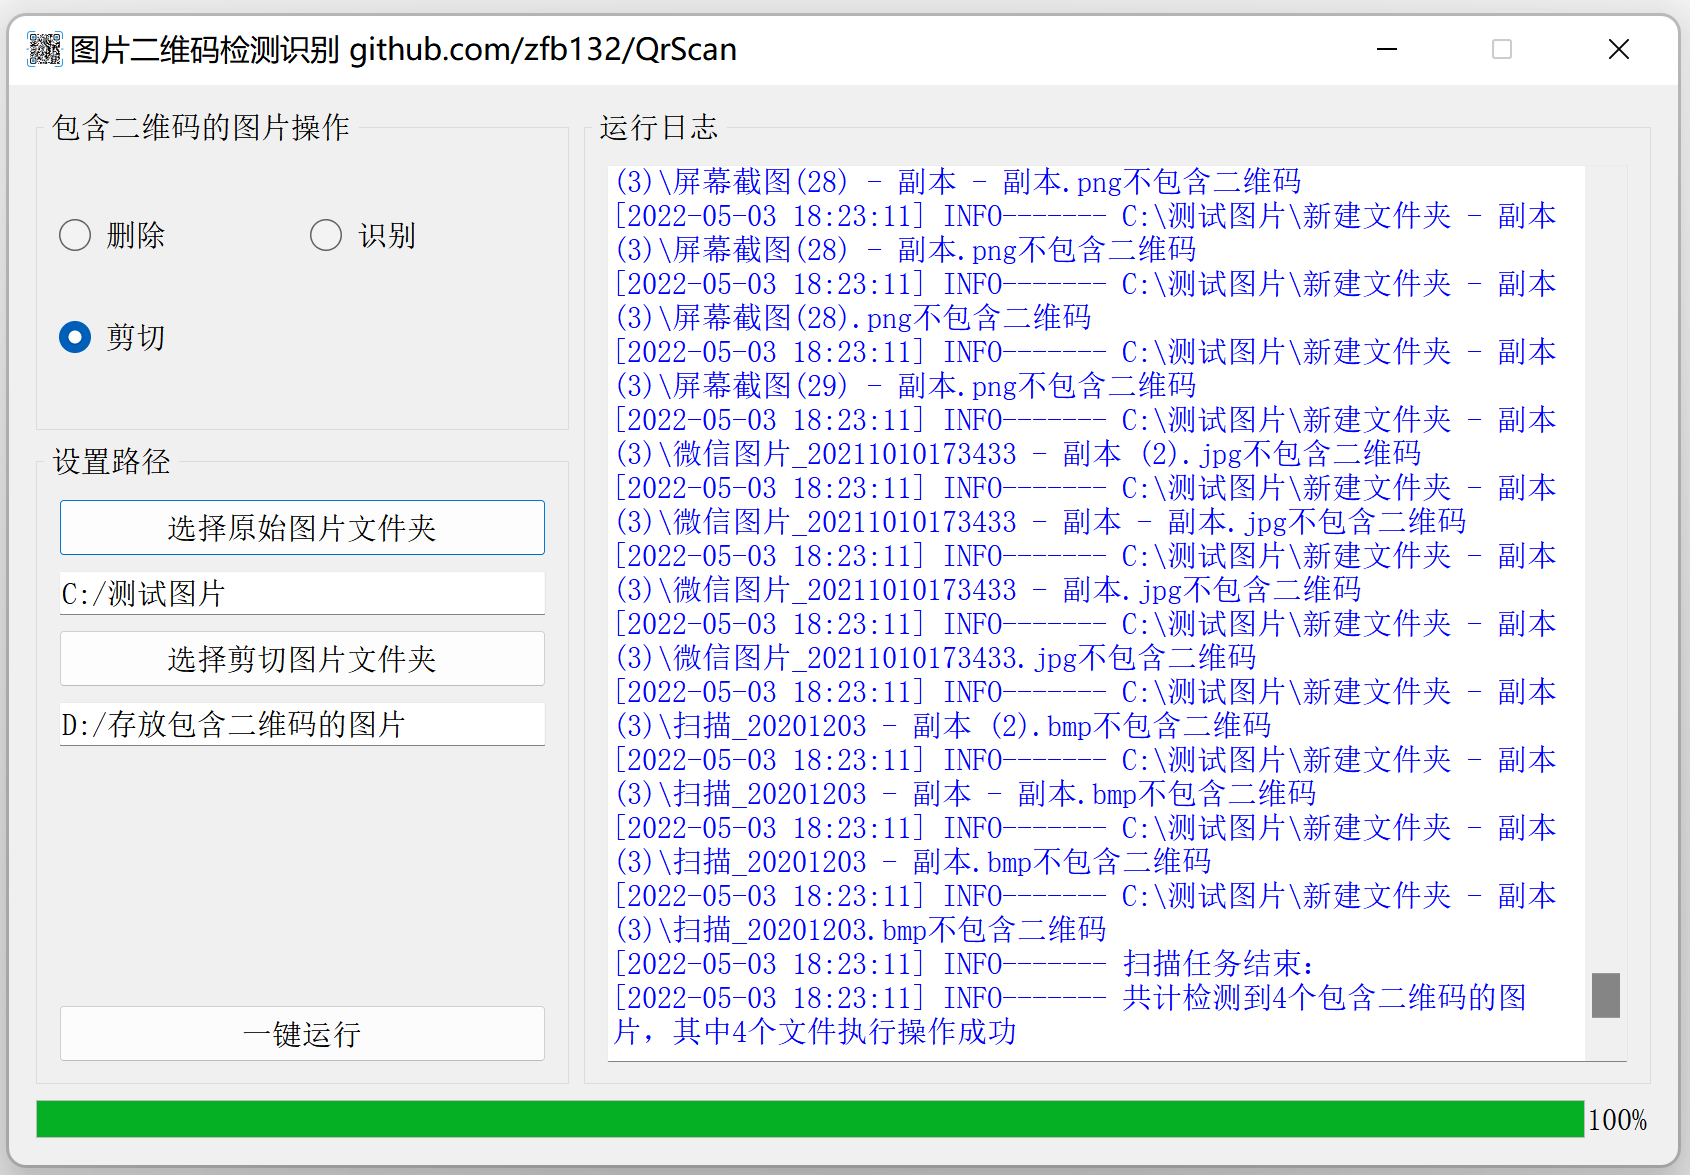
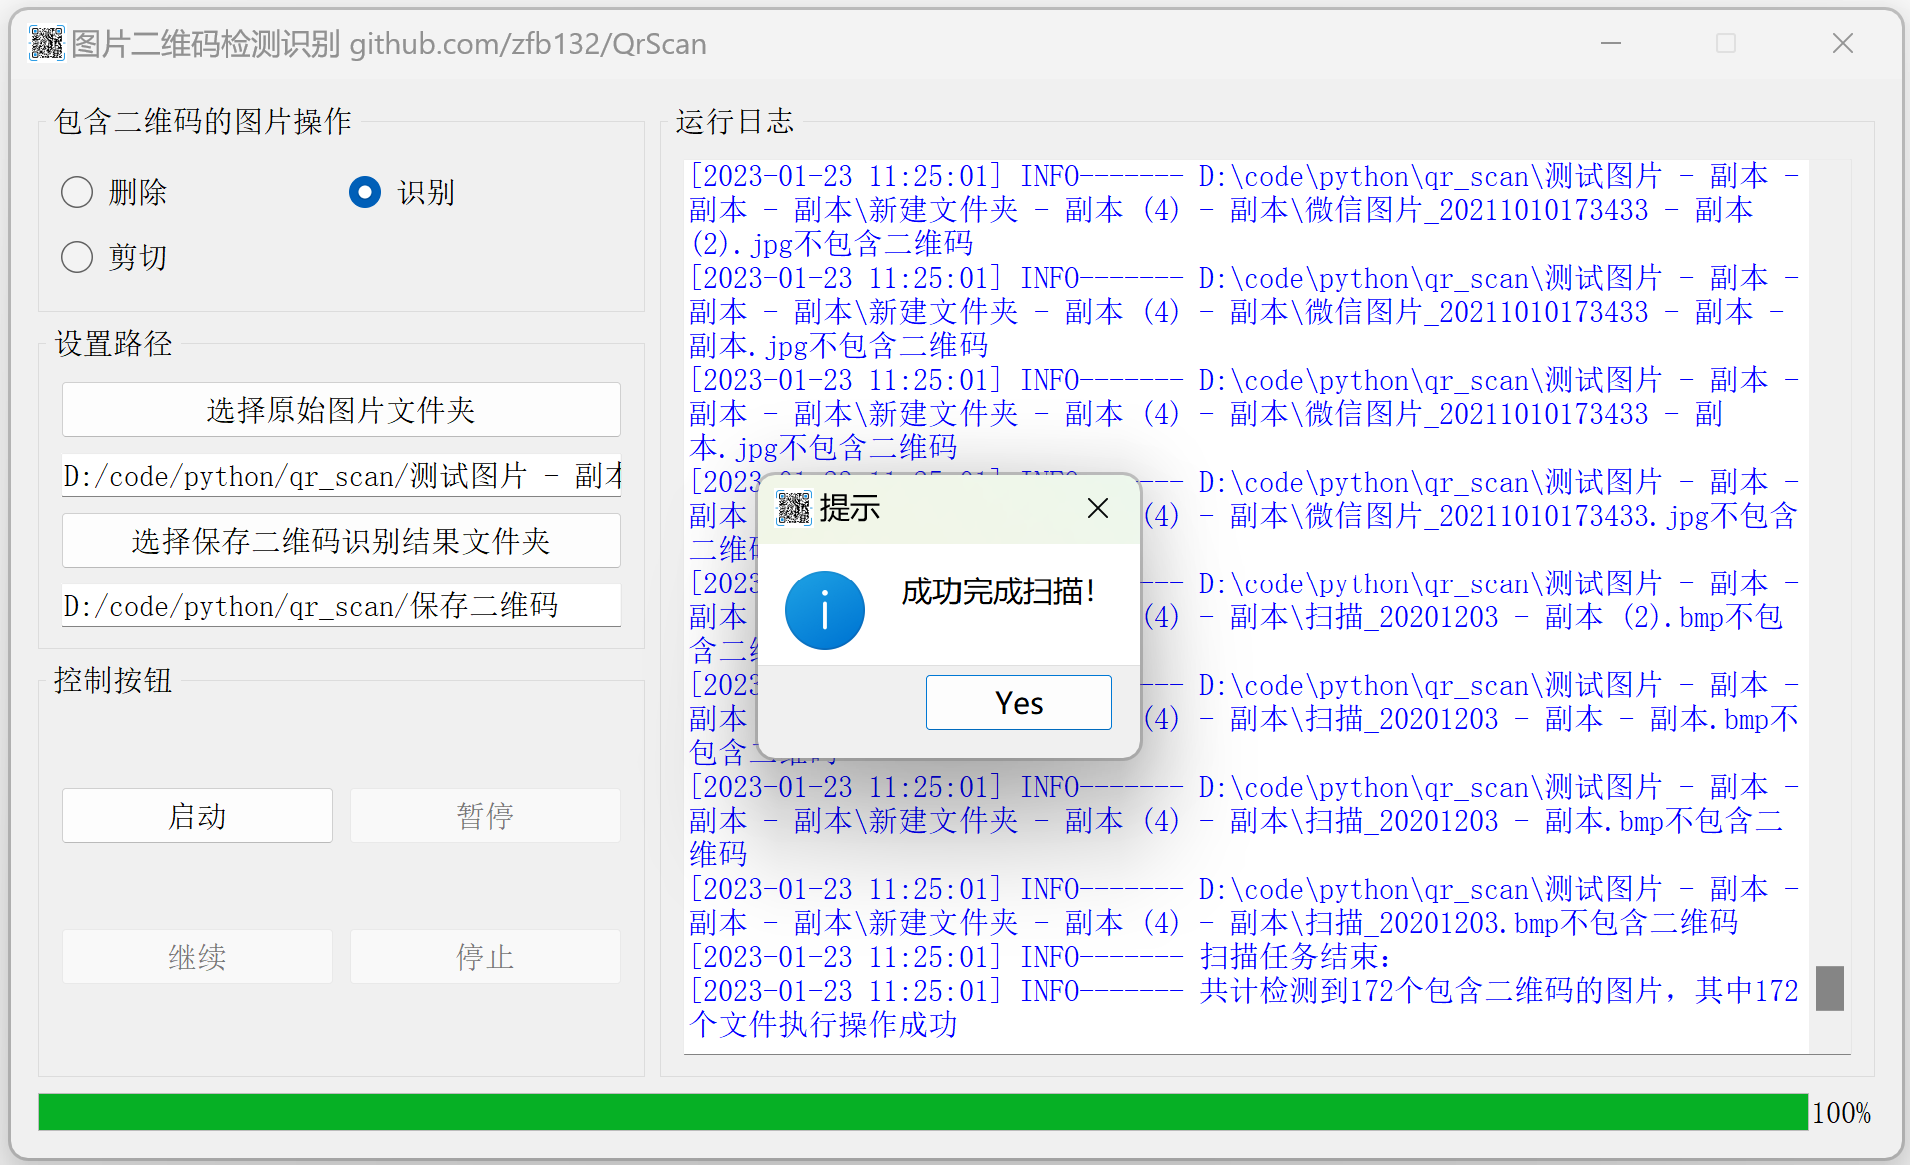
update docs: add new description

diff --git a/README.md b/README.md
@@ -1,7 +1,7 @@
 # QrScan
 二维码图片批量检测识别软件  
 支持常见的图片文件：`jpg`、`jpeg`、`png`、`bmp`、`tif`、`tiff`、`pbm`、`pgm`、`ppm`、`ras`等（识别二维码根据的是文件内容，即使扩展名为其他的，只要文件内容是图片编码都可识别）  
-**Win7及以下系统**可能存在兼容性问题，建议使用Win10系统  
+**Win7及以下系统**可能存在兼容性问题
 
 软件截图  
 <img src="docs/result.png" alt="软件截图" align=center />  
@@ -14,6 +14,8 @@
 * 支持选择对包含二维码图片进行的操作：**删除**、**剪切**、**识别**
 * 对于剪切操作，需要设置保存剪切文件的文件夹，遇到文件重名将会按时间戳重命名
 * 对于识别操作，需要设置保存二维码识别结果的文件夹，结果自动保存在该目录的`qrcode.csv`文件
+* 支持`启动`、`暂停`、`继续`、`停止`四种操作
+* 支持继续上次的任务（关闭软件前的任务未完成）
 * 支持实时日志显示与进度展示
 * 支持文件日志记录，默认保存在程序目录下的`log`文件夹，文件名格式为`年月日时分秒毫秒.txt`
 * 对于剪切和删除操作，默认会在日志文件夹中保存二维码识别结果，文件名格式为`年月日时分秒毫秒.csv`
